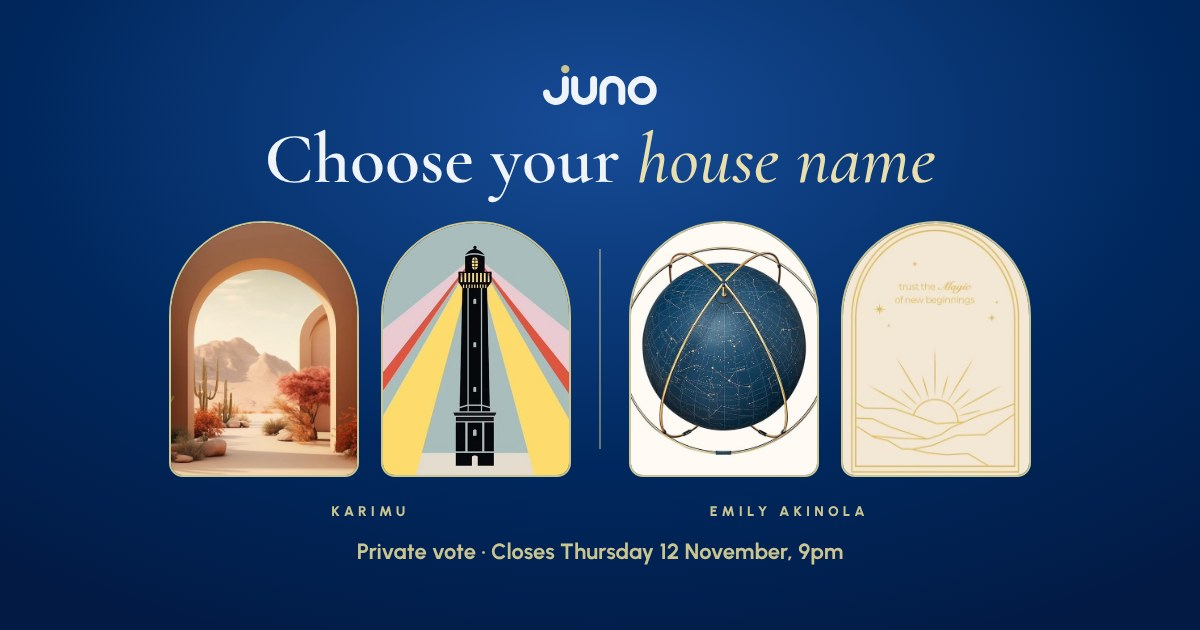
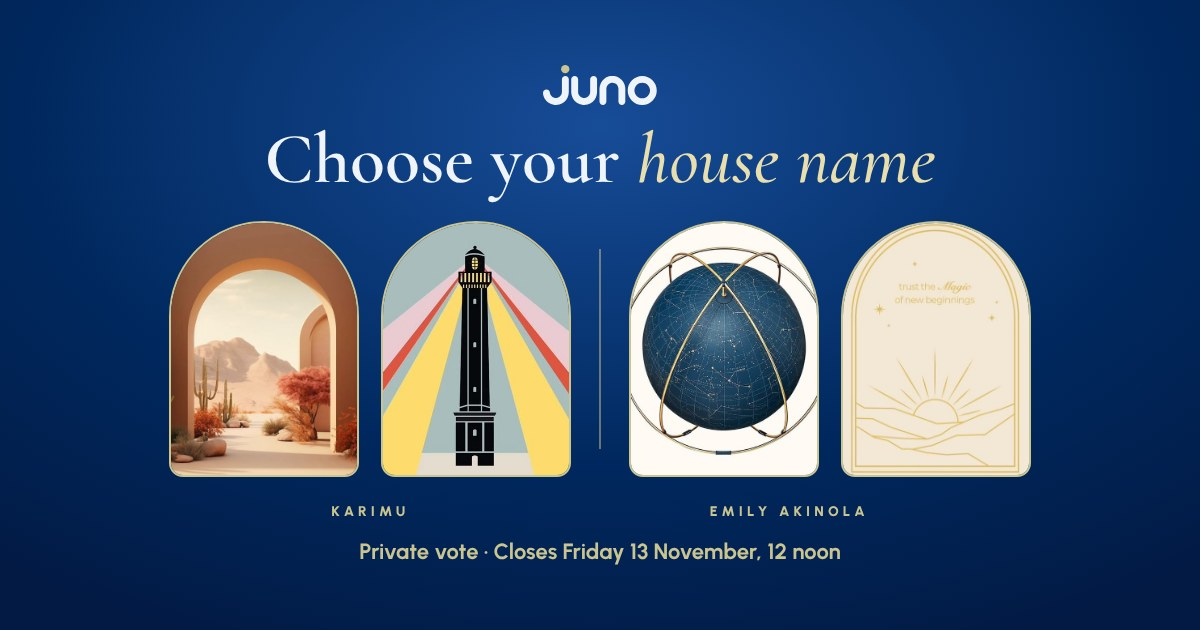
House name vote now closes Fri 13 Nov at 12 noon (vote page, link preview, Derby and feedback pages, Derby plan)
Claude-Session: https://claude.ai/code/session_01XdH3ECsCFRj6sJaFGNUV7W

Changed region(s): [[0.2775, 0.8444, 0.7092, 0.9048]]

diff --git a/derby/plan/index.html b/derby/plan/index.html
@@ -164,7 +164,7 @@ footer{margin-top:64px;padding-block:22px 48px;border-top:1px solid var(--line);
     <div class="vs"><span>Karimu</span><b>vs</b><span>Emily Akinola</span></div>
     <p class="lead">Twelve days from sign-ups to Derby Day. Every final in the build-up adds points to a building's tally, and the tally is settled on the pitch on Saturday 21 November. The building with the most points lifts the Juno Derby Cup.</p>
     <dl class="facts">
-      <div><dt>Sign-ups and name vote close</dt><dd>Thursday 12 November, 9pm</dd></div>
+      <div><dt>Sign-ups close · name vote closes</dt><dd>Thu 12 Nov, 9pm · Fri 13 Nov, noon</dd></div>
       <div><dt>Build-up</dt><dd>Saturday 14 to Friday 20 November</dd></div>
       <div><dt>Derby Day</dt><dd>Saturday 21 November, 4 to 5 hours on the pitch</dd></div>
     </dl>
@@ -177,7 +177,7 @@ footer{margin-top:64px;padding-block:22px 48px;border-top:1px solid var(--line);
     <h2 id="flow-h">Five stages, one tally</h2>
     <p class="sub">Each stage hands the next one what it needs. The sign-ups give us squads and sizes, the vote gives us the names on the jerseys, and every competition after that feeds the points tally.</p>
     <ol class="flow">
-      <li><span class="n">1</span><span class="when">10 to 12 Nov</span><h3>Sign up and vote</h3><p>Members pick their games at life.juno.africa/derby and vote for their house name at life.juno.africa/names. Votes stay private until Friday.</p><span class="out">Gives us: players, jersey sizes, house names</span></li>
+      <li><span class="n">1</span><span class="when">10 to 13 Nov</span><h3>Sign up and vote</h3><p>Members pick their games at life.juno.africa/derby and vote for their house name at life.juno.africa/names. Votes stay private until Friday.</p><span class="out">Gives us: players, jersey sizes, house names</span></li>
       <li><span class="n">2</span><span class="when">Fri 13 Nov</span><h3>Lock it in</h3><p>House names announced. Jerseys ordered with the new names. Brackets drawn and posted in both groups.</p><span class="out">Gives us: kit on order, fixtures out</span></li>
       <li><span class="n">3</span><span class="when">14 to 19 Nov</span><h3>The build-up</h3><p>Squad training, then tennis, snooker, chess, board games and FC 27 run across both buildings.</p><span class="pts">Every final scores</span></li>
       <li><span class="n">4</span><span class="when">Fri 20 Nov</span><h3>Derby Eve</h3><p>Kit collection at Karimu, the Wizard of Juno quiz and the FC 27 final on the big screen.</p><span class="pts">Quiz and FC 27 score</span></li>
@@ -199,10 +199,11 @@ footer{margin-top:64px;padding-block:22px 48px;border-top:1px solid var(--line);
         <div class="ev"><span class="t">All week</span><span class="w">Sign-ups at life.juno.africa/derby</span><span class="tag b">Both</span></div>
         <div class="ev"><span class="t">All week</span><span class="w">House-name vote at life.juno.africa/names, private until Friday</span><span class="tag b">Both</span><span class="pts">+1 turnout</span></div>
         <div class="ev"><span class="t">Wed 8pm</span><span class="w">Pre-Derby Connect: meet the games masters</span><span class="tag k">Karimu</span></div>
-        <div class="ev"><span class="t">Thu 9pm</span><span class="w">Sign-ups and voting close</span></div>
+        <div class="ev"><span class="t">Thu 9pm</span><span class="w">Derby sign-ups close</span></div>
       </div></div>
       <div class="day"><div class="date"><span>Fri</span><b>13</b><small>November</small></div><div class="evs">
-        <div class="ev"><span class="t">Morning</span><span class="w">House names announced in both groups</span><span class="tag b">Both</span></div>
+        <div class="ev"><span class="t">12 noon</span><span class="w">House name vote closes</span></div>
+        <div class="ev"><span class="t">Afternoon</span><span class="w">House names announced in both groups</span><span class="tag b">Both</span></div>
         <div class="ev"><span class="t">Day</span><span class="w">Jersey order placed with names and sizes; brackets drawn and posted</span></div>
         <div class="ev"><span class="t">8:00pm</span><span class="w">Pre-Derby Connect: meet the games masters</span><span class="tag e">Emily Akinola</span></div>
       </div></div>
@@ -293,7 +294,7 @@ footer{margin-top:64px;padding-block:22px 48px;border-top:1px solid var(--line);
         <thead><tr><th>Competition</th><th>When</th><th class="n">Winner</th><th class="n">Runner-up</th></tr></thead>
         <tbody>
           <tr class="grp"><td colspan="4">The build-up</td></tr>
-          <tr><td>House-name vote turnout<small>Higher share of the building's members voting</small></td><td>Closes Thu 12 Nov</td><td class="n">1</td><td class="n">–</td></tr>
+          <tr><td>House-name vote turnout<small>Higher share of the building's members voting</small></td><td>Closes Fri 13 Nov</td><td class="n">1</td><td class="n">–</td></tr>
           <tr><td>Tennis</td><td>Sat 14 to Sun 15 Nov</td><td class="n">3</td><td class="n">1</td></tr>
           <tr><td>Snooker</td><td>Sun 15 to Thu 19 Nov</td><td class="n">3</td><td class="n">1</td></tr>
           <tr><td>Board games</td><td>From Tue 17 Nov</td><td class="n">3</td><td class="n">1</td></tr>

diff --git a/names/index.html b/names/index.html
@@ -3,11 +3,11 @@
 <head>
 <meta charset="utf-8">
 <meta name="viewport" content="width=device-width,initial-scale=1,viewport-fit=cover">
-<meta name="description" content="Vote for your Juno building's new house name. Your vote is private. Voting closes Thursday 12 November, 9pm.">
+<meta name="description" content="Vote for your Juno building's new house name. Your vote is private. Voting closes Friday 13 November, 12 noon.">
 <meta name="theme-color" content="#00285E">
 <meta property="og:type" content="website">
 <meta property="og:title" content="Choose your house name">
-<meta property="og:description" content="Karimu and Emily Akinola are each choosing a house name for the Derby. Your vote is private. Closes Thursday 12 November, 9pm.">
+<meta property="og:description" content="Karimu and Emily Akinola are each choosing a house name for the Derby. Your vote is private. Closes Friday 13 November, 12 noon.">
 <meta property="og:url" content="https://life.juno.africa/names/">
 <meta property="og:image" content="https://life.juno.africa/names/og.jpg">
 <meta property="og:image:width" content="1200">
@@ -128,7 +128,7 @@ button[aria-pressed="true"]{background:var(--pick)!important;border-color:var(--
     <section class="titles">
       <p class="eyebrow">House name vote · Derby 2026</p>
       <h1>Choose your <span class="shine">house name</span></h1>
-      <p class="lead">Ahead of the Derby, each Juno building takes on a house name, and the winning name goes on the Derby jerseys. Your vote is private. Results are announced on Friday morning.</p>
+      <p class="lead">Ahead of the Derby, each Juno building takes on a house name, and the winning name goes on the Derby jerseys. Your vote is private. Results are announced on Friday.</p>
     </section>
   </div>
 </header>
@@ -146,7 +146,7 @@ button[aria-pressed="true"]{background:var(--pick)!important;border-color:var(--
 
   <div class="box" id="closedNote" hidden>
     <p class="t">Voting has closed</p>
-    <p>Thank you for voting. The new house names are announced on Friday morning in each building's group.</p>
+    <p>Thank you for voting. The new house names are announced on Friday in each building's group.</p>
   </div>
 
   <form id="form" novalidate>
@@ -194,7 +194,7 @@ button[aria-pressed="true"]{background:var(--pick)!important;border-color:var(--
 // event id below, with the chosen name in the notes column. Sending again with the same name and room updates the vote.
 const VOTE_URL = "https://script.google.com/macros/s/AKfycby7glLFdEq_B2WLJWjOk16iwSFwnNaf26Ho0BNxGuScizv9xANwqeOFW7qJd2aw7nDp/exec";
 const EVENT = { id: "2026-11-12-house-name-vote", title: "House name vote" };
-const CLOSES = Date.parse("2026-11-12T21:00:00+01:00");
+const CLOSES = Date.parse("2026-11-13T12:00:00+01:00");
 const OPTIONS = {
   "Karimu": [
     { name: "Belvedere", tag: "An Elevated Life.", meaning: "A building raised up for the view. Fitting for the house with the rooftop.", img: "belvedere.jpg" },
@@ -271,7 +271,7 @@ const OPTIONS = {
         $("doneTitle").textContent = "Your vote is in, " + name.split(/\s+/)[0] + ".";
         $("doneText").innerHTML = "";
         const s = document.createElement("strong"); s.textContent = "Juno " + state.choice;
-        $("doneText").append(document.createTextNode("You voted for "), s, document.createTextNode(" for " + state.building + ". Results are announced on Friday morning, and you can change your vote until Thursday 9pm."));
+        $("doneText").append(document.createTextNode("You voted for "), s, document.createTextNode(" for " + state.building + ". Results are announced on Friday, and you can change your vote until Friday at 12 noon."));
         $("form").hidden = true; $("doneView").hidden = false;
         $("go").disabled = false; $("go").textContent = "Cast my vote";
         $("doneView").scrollIntoView({ behavior: "smooth", block: "start" });

diff --git a/feedback/index.html b/feedback/index.html
@@ -192,7 +192,7 @@ textarea:focus{outline:none;border-color:var(--gold);box-shadow:0 0 0 4px rgba(2
     <div class="tick-badge" aria-hidden="true"><svg width="34" height="34" viewBox="0 0 24 24" fill="none" stroke="#050F26" stroke-width="3" stroke-linecap="round" stroke-linejoin="round"><path d="M5 12.5l4.5 4.5L19 7.5"/></svg></div>
     <h2>Thank you for your feedback.</h2>
     <p>The Juno team reads every answer, and it shapes what we plan next.</p>
-    <div class="box"><p class="t">Up next: the Juno Derby</p><p>Vote for your house name at <a href="../names/">life.juno.africa/names</a> and sign up at <a href="../derby/">life.juno.africa/derby</a> by Thursday 12 November, 9pm. Derby Day is Saturday 21 November.</p></div>
+    <div class="box"><p class="t">Up next: the Juno Derby</p><p>Vote for your house name at <a href="../names/">life.juno.africa/names</a> by Friday 13 November, 12 noon, and sign up at <a href="../derby/">life.juno.africa/derby</a> by Thursday 12 November, 9pm. Derby Day is Saturday 21 November.</p></div>
   </section>
 
   <footer class="foot">

diff --git a/derby/index.html b/derby/index.html
@@ -201,7 +201,7 @@ button[aria-pressed="true"]{background:var(--pick)!important;border-color:var(--
     <div class="tick-badge" aria-hidden="true"><svg width="34" height="34" viewBox="0 0 24 24" fill="none" stroke="#050F26" stroke-width="3" stroke-linecap="round" stroke-linejoin="round"><path d="M5 12.5l4.5 4.5L19 7.5"/></svg></div>
     <h2 id="doneTitle"></h2>
     <p id="doneText"></p>
-    <div class="box"><p class="t">One more thing</p><p>Your building is choosing its new house name, and it goes on the Derby jerseys. Vote at <a href="../names/" style="color:var(--gold);font-weight:800">life.juno.africa/names</a> before Thursday 12 November, 9pm.</p></div>
+    <div class="box"><p class="t">One more thing</p><p>Your building is choosing its new house name, and it goes on the Derby jerseys. Vote at <a href="../names/" style="color:var(--gold);font-weight:800">life.juno.africa/names</a> before Friday 13 November, 12 noon.</p></div>
     <button type="button" class="link" id="change">Change my sign-up</button>
   </section>
 
